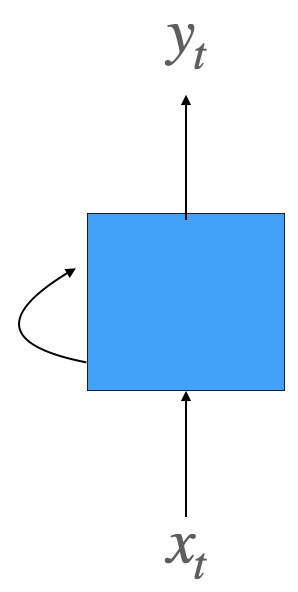
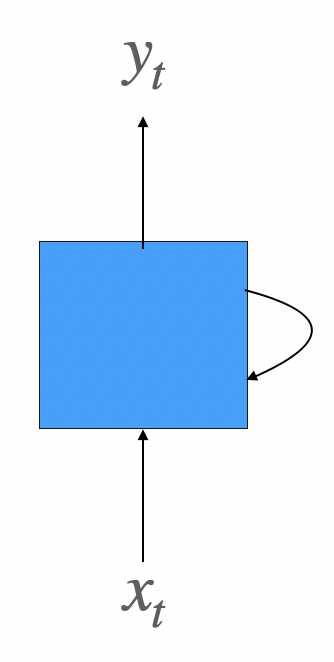
add rnn post and image
add missing image in rnn post

diff --git a/_posts/2022-07-18-rnn.md b/_posts/2022-07-18-rnn.md
@@ -1,0 +1,192 @@
+---
+title: "[NLP] RNN (Recurrent Neural Net)"
+excerpt: "sequence형 데이터를 처리하는 모델인 RNN의 동작 원리를 이해하고 다양한 형태에 대해 배워본다. RNN이 지니는 기울기 소실과 관련된 현상과 이로 인해 일어나는 long-term dependency problem에 대해 알아본다."
+use_math: true
+toc: true
+toc_sticky: true
+categories:
+    - nlp
+tags:
+    - RNN
+sidebar:
+    nav: sidebarTotal
+---
+## 1. RNN(Recurrent Neural Network)
+
+sequence 데이터, timeseries 데이터를 처리하기 위한 모델. 핵심은 과거의 정보를 기억하고 이를 활용한다는 것이다. sequence 데이터, timeseries 데이터가 아니더라도 이전 정보(과거 정보)를 기억해 활용해야하는 데이터라면 RNN을 사용해 처리하는 것을 고려해봐도 좋을 것 같다. RNN을 이용해 처리할 수 있는 데이터를 대표적으로 sequence 데이터, timeseries 데이터를 꼽는 이유는 해당 데이터가 이전 정보를 활용해서 예측을 진행해야하는 경우가 많기 때문이다.
+
+RNN이 과거의 정보를 기억할 수 있는 이유는 FFNN, CNN과 달리 모델 내부에서 계산된 결과값이 다시 다음 계산의 입력으로 들어가는 재귀적인(Recurrent) 특성이 있기 때문이다. RNN의 구조를 살펴보면서 이전에 계산된 결과가 다시 어떻게 활용이 되는지 살펴보자.
+
+### 기본 구조
+
+<img src='/assets/image/rnn/rnn1.png'>
+
+$x$는 입력층의 입력 벡터, $y$는 출력층의 출력 벡터이다. 파란 박스는 입력층과 출력층 사이에 존재하는 은닉층을 간단하게 표시한 것이다.
+
+RNN도 기본적으로 입력을 이용해 출력값을 만드는 것은 똑같다. 
+
+- 입력을 $x_t$, 출력을 $y_t$라고 적은 이유는 입력 데이터를 sequence 데이터로 가정했기 때문이다.
+- 입력으로 들어오는 sequence 데이터의 길이를 $n$이라고 했을 때, $t$번째 데이터를 처리하는 것이라고 볼 수 있다.
+- 일반적으로 sequence의 첫번째 원소를 1번째 시점(timestep)에 입력으로 들어오는 데이터, 두번째 원소를 2번째 시점(timestep)에 입력으로 들어오는 데이터라고 부른다. 이는 RNN이 sequence 데이터의 원소를 순서대로(시간 순대로) 처리하는 것에 기인한다. 따라서 $x_t$는 $t$ 시점에 들어오는 데이터라고 부르며 $t$ 시점을 기준으로  $x_{t-1}$을 이전 시점의 데이터, $x_{t+1}$을 다음 시점의 데이터라고 부른다. 순서를 시점으로 바꿔서 부른다고 생각하면 편하다.
+
+하지만 다른 부분도 하나 존재하는데 바로 은닉층에 존재하는 화살표이다.
+
+해당 화살표는 현재 시점의 은닉층의 결과값이 다음 시점 은닉층의 입력으로 들어가는 것을 뜻한다. 이렇게 전달되는 값을 은닉 상태(hidden state)∙은닉 상태 벡터(hidden state vector)라고 부르며 결국 다음 시점에 은닉층으로 들어오는 입력은 다음 시점의 입력 벡터와 현재 시점의 은닉 상태 벡터 총 2가지가 들어간다.
+
+펼쳐서 보면 더 구조를 이해하기 쉽다.
+
+<img src='/assets/image/rnn/rnn2.png'>
+
+각 시점마다 은닉층으로 현재 시점의 입력 벡터, 이전 시점의 은닉 상태 벡터가 들어오며 sequence 데이터를 모두 읽을 때까지 해당 구조가 반복되는 것을 알 수 있다. 
+
+- 은닉 상태 벡터를 $h$로 표시했다. 첫번째 시점에서는 이전 시점에 생산된 은닉 상태 벡터가 없기 때문에 $h_0$라는 일종의 더미값을 준 것이라고 보면 된다.
+- 그림으로 인해 헷갈릴 수 있는데 여기서 주의할 점은 각 시점마다 다른 모델이 사용되는 것이 아니다. 동일한 모델(동일한 학습 파라미터)이 사용되는 것이며 이해를 위해 하나의 모델을 각 시점마다 반복된 형태로 그려놓은 것으로 보면된다.
+
+따라서 은닉층에서는 이전 시점의 은닉 상태 벡터가 들어오고 이를 이용해 다시 현재 시점의 은닉 상태 벡터를 만들기 때문에 은닉층이 일종의 메모리 역할을 수행한다고 볼 수 있으며 이를 통해 이전 정보를 기억할 수있게된다.
+
+- 은닉 상태 벡터에 정보가 저장이 된다고 볼 수 있다.
+
+어떤 방식으로 은닉 상태 벡터를 활용하는지 살펴 보자. (이제부터 입력 벡터를 input vector, 은닉 상태 벡터를 hidden state vector, 출력 벡터를 output vector로 표기하겠다.)
+
+### hidden state vector(은닉 상태 벡터) 만들기
+
+현재 시점의 hidden state vector를 만들기 위해 2가지 벡터가 필요하다고 했다.
+
+- $x_t$: 현재 시점의 input vector
+- $h_{t-1}$: 이전 시점의 hidden state vector
+
+RNN 모델에서 사용되는 파라미터를 $W$로 설정하고 이를 활용해 계산하는 함수를 $f_W$라고 하겠다.
+
+현재 시점의 hidden state vector는 다음과 같이 계산이 된다.
+
+- $h_t = f_W(h_{t-1}, x_t)$
+
+이를 좀 더 자세히 풀어보면 다음과 같다.
+
+- $h_t = tanh(W[x_t, h_{t-1}])$ , ( $[x_t, h_{t-1}]$은 두 벡터를 concatenation한 것을 뜻한다. )
+
+hidden state vector를 2차원 벡터, input vector를 3차원이라고 가정했을 때 $W[x_t, h_{t-1}]$에서 일어나는 일을 그림으로 살펴보면 다음과 같다.
+
+<img src='/assets/image/rnn/rnn3.png'>
+
+$W$의 각각의 행 벡터가 input vector와 hidden state vector를 concatenation한 vector와 내적 연산을 하여 현재 시점의 hidden state vector의 각 원소로 들어가는 것을 볼 수 있다.
+
+- $h$가 2차원 벡터이고 $[x,h]$가 5차원 벡터이기 때문에 $W: 2 \times 5$ 행렬이 된다.
+
+이를 더 자세히 살펴보면 다음과 $W$의 1~3번째 열까지는 input vector와 내적 계산이 되고, 4~5번째 열까지는 hidden state vector와 내적 계산이 되어 두 계산 결과가 합해지는 것으로 볼 수있다.
+
+따라서 W를 2개의 행렬로 분리해 다음과 같은 방법으로 표기를 더 많이 한다.
+
+<img src='/assets/image/rnn/rnn4.png'>
+
+- $h_t = tanh(W_{hh}h_{t-1} + W_{xh}x_t)$
+- $W_{hh}: 2 \times 2$ 행렬, 결국 $h_{t-1} \rightarrow h_t$로 선형변환한다고 볼 수 있다.
+- $W_{xh}: 2 \times 3$ 행렬, 결국 $x_t \rightarrow h_t$로 선형변환한다고 볼 수 있다.
+
+두 행렬 곱의 합을 통해 나온 결과가 activation fucntion으로 사용되는 non-linear function인 $tanh$를 통과해서 현재 시점의 hidden state vector인 $h_t$가 만들어진다.
+
+(bias term은 따로 표기하지 않았다.)
+
+### output vector(출력 벡터) 만들기
+
+현재 시점의 output vector로 hidden state vector를 그대로 활용하는 경우도 있지만 보통 hidden state vector를 다시 한 번 선형변환을 해서 사용한다.
+
+- $y_t = f(W_oh_t)$
+
+$f$는 non-linear function으로 상황에 따라 적절한 것을 적용하면 된다. 이진 분류 시에는 cross-entropy 함수를 적용할 수 있고 다중 분류 시에는 softmax 함수를 사용할 수 있다. (bias term은 따로 표기하지 않았다.)
+
+## 2. RNN의 여러 형태
+
+앞서 RNN이 sequence 데이터, timeseries 데이터에 자주 쓰인다고 언급했다.(이전 정보를 기억해야하는 데이터라면 어떤 형태이던지 상관이 없지만…)
+
+입력이 sequence의 형태의 데이터로 들어오다 보니 출력 역시 sequence 형태의 데이터가 된다.
+
+RNN은 입력과 출력의 sequence 길이에 따라 여러 형태로 나눌 수 있다.
+
+### one-to-one
+
+<img src='/assets/image/rnn/rnn5.png'>
+
+일반적인 Neural Network와 구조가 동일하다.
+
+한 번에 입력을 받고 한 번에 출력하기 때문에 (non-sequence to non-sequence로 볼 수 있다.)
+
+### one-to-many
+
+<img src='/assets/image/rnn/rnn6.png'>
+
+한 번에 입력을 받고 sequence 데이터를 출력하는 형태이다. (non-sequence to sequence)
+
+RNN은 매 시점마다 입력을 받기 때문에 구현할 때 두번째 시점부터는 더미 데이터를 입력으로 넣어주어야한다.
+
+대표적으로 image captioning이 존재한다.
+
+- image captioning: 주어진 image에 대한 설명글을 만드는 작업
+
+### many-to-one
+
+<img src='/assets/image/rnn/rnn7.png'>
+
+sequence를 입력 받고 하나의 값을 출력하는 형태이다.
+
+대표적으로 sentiment classification이 존재한다.
+
+- sentiment classification: 감정 분류(positive or negative)
+
+### many-to-many
+
+sequence를 입력 받고 sequence를 출력하는 형태이다.
+
+many-to-many는 다시 2가지로 분류할 수 있다.
+
+<img src='/assets/image/rnn/rnn8.png'>
+
+첫번째 형태는 입력 문장을 모두 읽고 나서 출력을 하는 형태이다. (출력할 때는 입력 값이 들어오지 않는다.)
+
+대표적으로 machine translation이 존재한다.
+
+- machine translation: 기계 번역
+
+<img src='/assets/image/rnn/rnn9.png'>
+
+두번째 형태는 매 시점마다 입력이 들어오고 입력이 주어질 때마다 출력을 내보내는 형태이다.
+
+대표적으로 video classification of frame level이 존재한다.
+
+## 3. BPTT (Backpropagation through time)
+
+<img src='/assets/image/rnn/rnn10.png'>
+
+RNN 구조의 특성상 전체 sequence를 모두 읽은 이후 출력값을 계산하고 이에 따라 역전파가 이루어지는 형태이기 때문에 sequence가 많거나 길수록 시간이 오래 걸린다.
+
+- 시간이 오래 걸리는 이유는 각 시점에서 gradient를 계산할 때 이전 모든 시점까지 gradient가 전달되어 계산되어져야하기 때문이다.
+- 자세한 내용은 [참고](https://m.blog.naver.com/infoefficien/221210061511)를 확인하면 역전파 계산과 함께 자세한 수식을 살펴볼 수 있다.
+
+따라서 sequence를 일정 단위로 나누어 역전파를 수행한다.
+
+- 순전파할 때는 일정 단위에 상관에 없이 이전 시점의 hidden state vector가 다음 시점으로 들어가는 형태로 연속적으로 수행된다.
+- 역전파할 때는 일정 단위로 끊어서 계산이 수행된다.
+
+<img src='/assets/image/rnn/rnn11.png'>
+
+## 4. Vanishing/Exploding Gradient Problem in RNN
+
+RNN에서 일어나는 역전파 과정을 자세히 살펴보면 동일한 행렬($W_{hh})$이 반복적으로 곱해지는 것을 알 수 있다.
+
+같은 값이 계속해서 곱해지기 때문에 등비수열의 효과를 일으키는데 이 때 행렬의 특잇값이 1보다 크면 gradient가 지수적으로 증가하고 1보다 작으면 gradient가 지수적으로 작아질 수가 있다.
+
+모델 학습은 모델 파라미터에 계산된 gradient를 적용하여 갱신하는 형태로 이루어지기 때문에 gradient가 지수적으로 증가하게되면 오버플로우 현상을 일으킬 수 있고 반대로 gradient가 지수적으로 작아지게되면 gradient가 0이 되어 모델 파라미터가 갱신이 되지 않는 현상이 발생할 수 있다. 이를 gradinet exploding(기울기 폭발), gradient vanishing(기울기 소실) 현상이라고 한다.
+
+- 이런 구조적인 특성 외에도 RNN에 사용되는 $tanh$ 함수 또한 gradient vanishing 현상에 영향을 줄 수 있다. ($tanh$함수의 기울기 최댓값이 1 이기 때문이다.)
+
+따라서 sequence의 길이가 길수록 동일한 행렬($W_{hh})$이 반복적으로 곱해지기 때문에 gradient exploding/vanishing 현상에 크게 영향을 받아 모델 학습이 이루어지지 않기 때문에 long-term dependency problem이 발생한다는 단점이 존재한다. 이는 결국 sequence의 길이가 길수록 RNN이 기억할 수 있는 정보가 많지 않게 된다는 것을 의미한다. (기억력에 영향을 준다.)
+
+### Long-Term Dependency Problem
+
+다음과 같은 예시 문장이 있다고 가정해보자.
+
+“영국으로 축구 여행을 떠났어. 첫째날에는 북런던에 있는 토트넘의 경기를 봤어. 둘째날에는 맨체스터에 있는 맨체스터 유나이티드 경기를 봤어. 셋째날에는 다시 런던으로 가서 첼시 경기를 봤어. 일주일 여행을 마친뒤 귀국해서 친구들과 얘기를 나눴는데 친구가 첫째날에 어떤 경기를 봤냐고 물어보는거야. 첫째날에 어떤 구단의 경기를 봤냐면 ? 구단의 경기를 봤어.”
+
+‘?’ 위치에 들어가야할 적절한 말은 ‘토트넘’이다. ‘토트넘’의 위치와 ‘?’ 위치는 멀리 떨어져있지만(long term) 서로 연관(의존성, dependency)이 되어있다. RNN은 sequence의 길이가 길수록 gradient exploding 또는 gradient vanishing 현상으로 인해 매우 긴 문장 또는 문단 사이의 정보를 온전히 기억하지 못하고 정보를 소실할 수 있다.
+
+이러한 문제를 long-term dependency problem이라고 한다.
